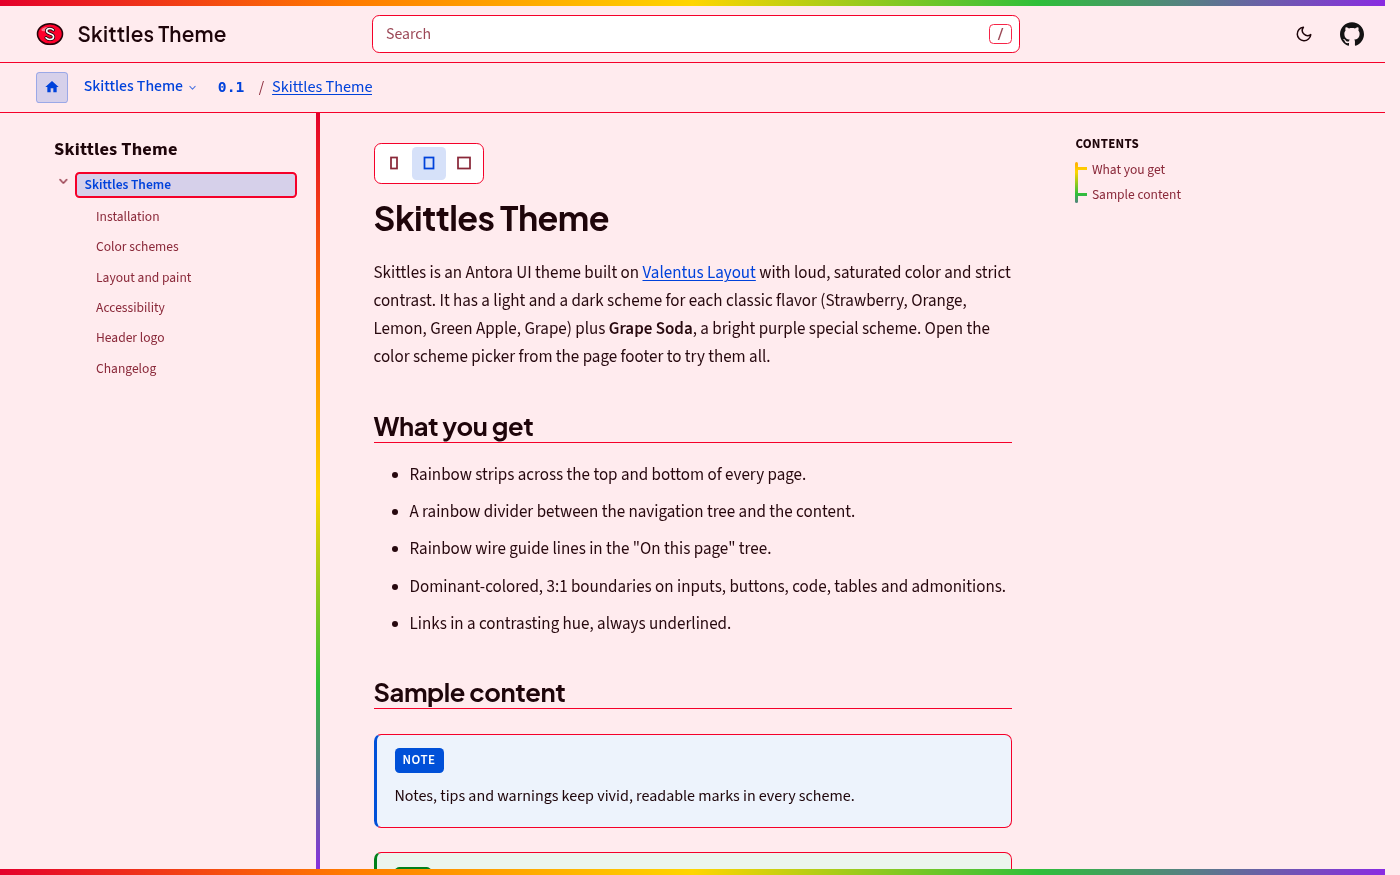
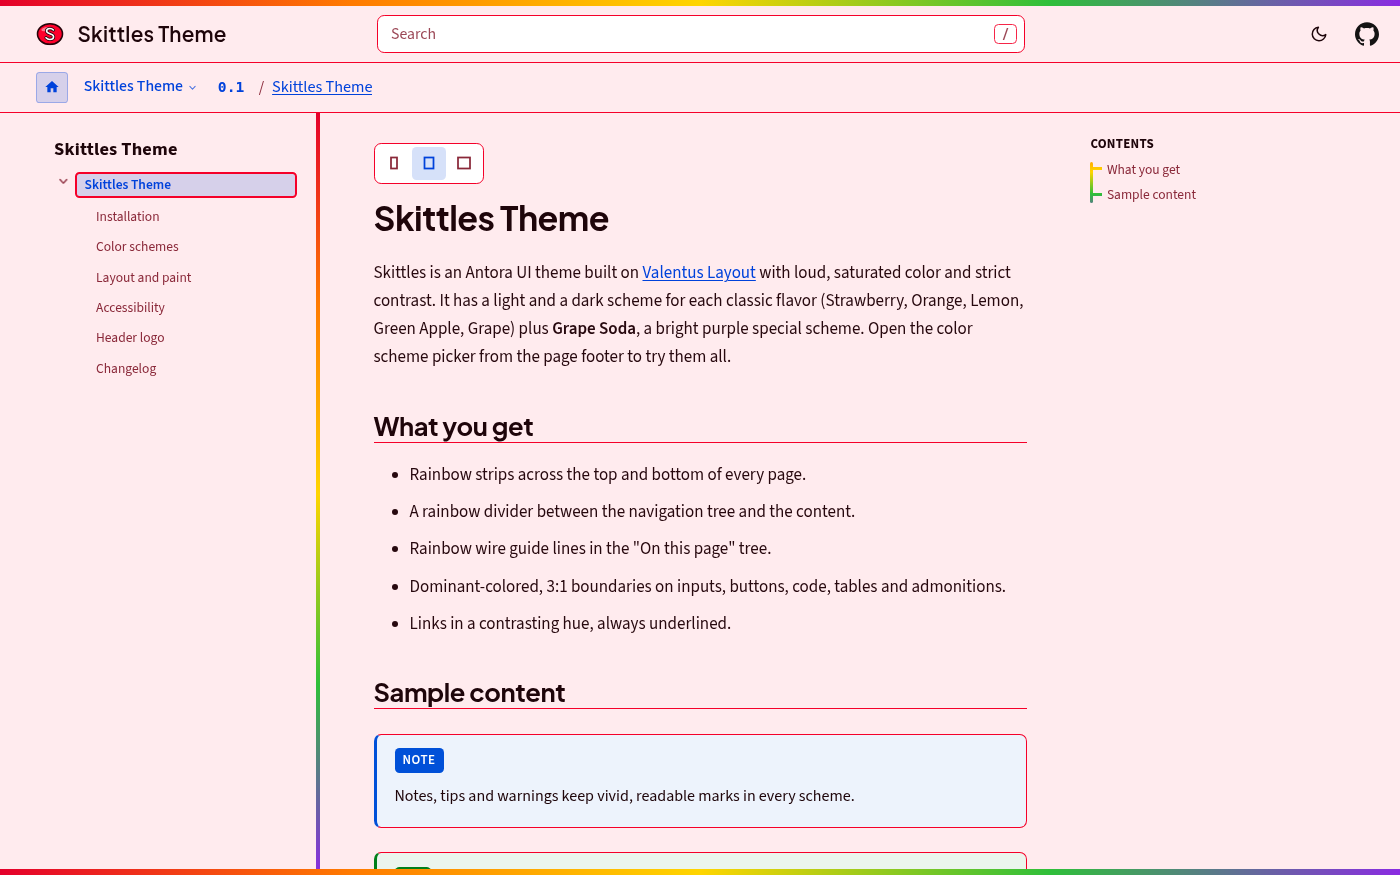
feat(themes): index Default UI with light/dark mode (GitLab fork) as the featured Default UI; variant link on the stock page; GitLab repo extras; gutter-free Skittles preview

diff --git a/src/data/known-theme-repos.ts b/src/data/known-theme-repos.ts
@@ -13,17 +13,41 @@ export interface KnownThemeRepo {
   description: string;
   githubTopics: string[];
   demoUrl?: string;
+  /** Forge host when not GitHub, e.g. 'gitlab.com'. */
+  host?: string;
+  /** Preview path under public/ when /previews/<repo>.png would collide. */
+  previewImage?: string;
+  /** owner/repo of the theme this one is a variant (enhanced fork) of; that theme's page links here. */
+  variantOf?: string;
+  /** Link text on the base theme's page, e.g. "Also available with light/dark mode". */
+  variantLabel?: string;
 }
 
-// Order is the homepage "Featured Themes" order; the upstream Antora Default UI leads.
+/** Repository URL of a curated theme (GitHub unless host says otherwise). */
+export function knownThemeRepoUrl(ref: Pick<KnownThemeRepo, 'owner' | 'repo' | 'host'>): string {
+  return `https://${ref.host ?? 'github.com'}/${ref.owner}/${ref.repo}`;
+}
+
+/** Curated variants of a theme (by its owner/repo): generic "Also available with …" links for its detail page. */
+export function themeVariantsOf(path: string): Array<{ path: string; label: string; href: string }> {
+  return knownThemeRepos
+    .filter((r) => r.variantOf && r.variantOf.toLowerCase() === path.toLowerCase())
+    .map((r) => ({ path: `${r.owner}/${r.repo}`, label: r.variantLabel ?? `Also available as ${r.name}`, href: `/themes/${r.owner}/${r.repo}` }));
+}
+
+// Order is the homepage "Featured Themes" order; the Default UI slot leads (the light/dark fork of the stock UI).
 export const knownThemeRepos: KnownThemeRepo[] = [
   {
-    owner: 'antora',
+    host: 'gitlab.com',
+    owner: 'AMDphreak',
     repo: 'antora-ui-default',
-    name: 'Default UI',
-    description: 'The official Antora default UI bundle.',
-    githubTopics: [ANTORA_TOPICS.THEME, ANTORA_APPEARANCE_TOPICS.LIGHT_THEME],
-    demoUrl: 'https://docs.antora.org',
+    name: 'Default UI with light/dark mode',
+    description: 'The Antora Default UI plus a light/dark mode toggle (fork of antora/antora-ui-default).',
+    githubTopics: [ANTORA_TOPICS.THEME, ANTORA_APPEARANCE_TOPICS.LIGHT_THEME, ANTORA_APPEARANCE_TOPICS.DARK_THEME],
+    demoUrl: 'https://gitlab.com/AMDphreak/antora-ui-default/-/tree/feat/root-theme-transition',
+    previewImage: '/previews/amdphreak-antora-ui-default.png',
+    variantOf: 'antora/antora-ui-default',
+    variantLabel: 'Also available with light/dark mode',
   },
   {
     owner: 'antora-supplemental',
@@ -60,6 +84,14 @@ export const knownThemeRepos: KnownThemeRepo[] = [
     ],
     demoUrl: 'https://antora-supplemental.org/skittles-theme/',
   },
+  {
+    owner: 'antora',
+    repo: 'antora-ui-default',
+    name: 'Default UI',
+    description: 'The official Antora default UI bundle.',
+    githubTopics: [ANTORA_TOPICS.THEME, ANTORA_APPEARANCE_TOPICS.LIGHT_THEME],
+    demoUrl: 'https://docs.antora.org',
+  },
 ];
 
 function themeAppearanceOf(topics: string[]) {
@@ -73,10 +105,10 @@ export function themesFromKnownRepos(): Theme[] {
     name: ref.name,
     description: ref.description,
     author: ref.owner,
-    repoUrl: `https://github.com/${ref.owner}/${ref.repo}`,
+    repoUrl: knownThemeRepoUrl(ref),
     demoUrl: ref.demoUrl ?? `https://${ref.owner}.github.io/${ref.repo}/`,
     // Screenshots of each demoUrl, committed under public/previews (theme repos ship no preview.png).
-    previewImage: `/previews/${ref.repo}.png`,
+    previewImage: ref.previewImage ?? `/previews/${ref.repo}.png`,
     stars: 0,
     tags: [...new Set([...appearanceTags(ref.githubTopics), 'documentation'])],
     lastUpdated: new Date().toISOString(),

diff --git a/src/lib/ui-modules.ts b/src/lib/ui-modules.ts
@@ -1,3 +1,6 @@
+import { antoraRepoDefault } from '~/lib/antora-compat';
+import { parseColorSchemes, type ColorScheme } from '~/lib/color-schemes';
+import { readRelations } from '~/lib/pkg-compat';
 import { fetchRepoReleaseInfo } from '~/lib/repo-releases';
 import fs from 'node:fs';
 import path from 'node:path';
@@ -497,6 +500,22 @@ export function upstreamFork(e: Pick<ExtensionCatalogEntry, 'upstream'>): ForkIn
   return source ? { parent: source, source } : undefined;
 }
 
+/** package.json antoraRegistry extras read through a forge's raw-file fetcher. */
+async function gitlabExtras(fetchText: (p: string) => Promise<string | null>) {
+  let pkg: any = null;
+  try { pkg = JSON.parse((await fetchText('package.json')) ?? 'null'); } catch { pkg = null; }
+  const antora = antoraRepoDefault(pkg);
+  const decl = pkg?.antoraRegistry?.colorSchemes;
+  const paths: string[] = (Array.isArray(decl) ? decl : decl ? [decl] : []).filter((p: unknown): p is string => typeof p === 'string').slice(0, 3);
+  const colorSchemes: ColorScheme[] = [];
+  for (const p of paths) {
+    const css = await fetchText(p.replace(/^\.?\//, ''));
+    if (css) colorSchemes.push(...parseColorSchemes(css));
+  }
+  const relations = readRelations(pkg?.antoraRegistry ?? pkg?.['antora-registry']);
+  return { antora, colorSchemes, relations };
+}
+
 /** GitLab project (gitlab.com or self-hosted): package.json-listed extension, same enrichment as GitHub. */
 async function indexGitLabRepo(ref: KnownExtensionRepo): Promise<ExtensionCatalogEntry[] | null> {
   const host = ref.host!.toLowerCase();
@@ -526,8 +545,13 @@ async function indexGitLabRepo(ref: KnownExtensionRepo): Promise<ExtensionCatalo
     return null;
   }
   const forkOf = fields.fork ? forkInfoFrom(fields, null) : upstreamFork(entry);
+  // Same repo-level extras as GitHub (no releases API here): Antora default, relations, declared color schemes.
+  const extras = await gitlabExtras((p) => fetchGitLabRaw(host, ref.owner, ref.repo, branch, p));
   return [{
+    ...(extras.relations ? { relations: extras.relations } : {}),
     ...entry,
+    ...(extras.antora.length ? { antora: extras.antora } : {}),
+    ...(extras.colorSchemes.length ? { colorSchemes: extras.colorSchemes } : {}),
     catalogId: `${host}/${ref.owner}/${ref.repo}`.toLowerCase() + `/${entry.id}`,
     repositoryHost: host,
     ...(forkOf ? { forkOf } : {}),

diff --git a/src/routes/themes/[owner]/[repo].tsx b/src/routes/themes/[owner]/[repo].tsx
@@ -1,6 +1,6 @@
 import { A, Navigate, createAsync, useParams } from '@solidjs/router';
 import { Title } from '@solidjs/meta';
-import { createMemo, Show, Suspense } from 'solid-js';
+import { createMemo, For, Show, Suspense } from 'solid-js';
 import SiteLayout from '~/components/SiteLayout';
 import NewBadge from '~/components/catalog/NewBadge';
 import ReportButton from '~/components/catalog/ReportButton';
@@ -10,6 +10,7 @@ import { cn } from '~/lib/utils';
 import { THEME_APPEARANCE_LABELS } from '~/lib/appearance-filter';
 import { loadExtensionCatalog, loadThemes } from '~/lib/server/catalog';
 import { themeRepoPath } from '~/lib/theme-href';
+import { themeVariantsOf } from '~/data/known-theme-repos';
 
 /** Theme detail page. When the theme's repo is also a catalog package, the package page is the detail page. */
 export default function ThemeDetailPage() {
@@ -46,6 +47,9 @@ export default function ThemeDetailPage() {
                     <p class="text-slate-400 mb-4">by {t().author} · ★ {t().stars}</p>
                     <img src={t().previewImage} alt={`Preview of ${t().name}`} class="w-full rounded-xl border border-slate-700/50 mb-6" />
                     <p class="text-slate-300 mb-4">{t().description}</p>
+                    <For each={themeVariantsOf(key())}>
+                      {(v) => <p class="mb-4"><A href={v.href} class="text-primary-400 hover:text-primary-300 font-medium">{v.label} →</A></p>}
+                    </For>
                     <Show when={t().appearance}>{(a) => <p class="text-sm text-slate-400 mb-4">{THEME_APPEARANCE_LABELS[a()]}</p>}</Show>
                     <div class="flex flex-wrap gap-2 mb-6">{t().tags.filter((x) => x !== 'theme').map((x) => <Badge>{x}</Badge>)}</div>
                     <div class="flex gap-3 items-center">

diff --git a/tests/theme-variants.test.ts b/tests/theme-variants.test.ts
@@ -1,0 +1,19 @@
+import { test } from 'node:test';
+import assert from 'node:assert/strict';
+import { knownThemeRepoUrl, themeVariantsOf, themesFromKnownRepos } from '../src/data/known-theme-repos';
+
+test('stock Default UI links to its light/dark fork, not the other way round', () => {
+  assert.deepEqual(themeVariantsOf('antora/antora-ui-default'), [
+    { path: 'AMDphreak/antora-ui-default', label: 'Also available with light/dark mode', href: '/themes/AMDphreak/antora-ui-default' },
+  ]);
+  assert.deepEqual(themeVariantsOf('AMDphreak/antora-ui-default'), []);
+});
+
+test('the fork leads the featured themes from GitLab; the stock item stays light-only', () => {
+  const themes = themesFromKnownRepos();
+  assert.equal(themes[0].repoUrl, 'https://gitlab.com/AMDphreak/antora-ui-default');
+  assert.equal(themes[0].name, 'Default UI with light/dark mode');
+  const stock = themes.find((t) => t.repoUrl === 'https://github.com/antora/antora-ui-default')!;
+  assert.equal(stock.appearance, 'light');
+  assert.equal(knownThemeRepoUrl({ owner: 'a', repo: 'b' }), 'https://github.com/a/b');
+});

diff --git a/src/lib/themes/catalog.ts b/src/lib/themes/catalog.ts
@@ -1,11 +1,11 @@
 import { eq, desc } from 'drizzle-orm';
 import { sampleThemes } from '~/data/themes';
-import { knownThemeRepos } from '~/data/known-theme-repos';
+import { knownThemeRepos, knownThemeRepoUrl } from '~/data/known-theme-repos';
 
 /** Curated order first (Default UI leads), then everything else by stars. */
 function featuredRank(repoUrl: string): number {
   const i = knownThemeRepos.findIndex(
-    (r) => `https://github.com/${r.owner}/${r.repo}`.toLowerCase() === repoUrl.toLowerCase(),
+    (r) => knownThemeRepoUrl(r).toLowerCase() === repoUrl.toLowerCase(),
   );
   return i < 0 ? Number.MAX_SAFE_INTEGER : i;
 }

diff --git a/src/data/extension-repos.ts b/src/data/extension-repos.ts
@@ -60,4 +60,13 @@ export const knownExtensionRepos: KnownExtensionRepo[] = [
     discoveredVia: 'curated',
     githubTopics: [ANTORA_TOPICS.EXTENSION],
   },
+  {
+    // Default UI with light/dark mode: fork of antora/antora-ui-default; dark mode lives on this branch.
+    host: 'gitlab.com',
+    owner: 'AMDphreak',
+    repo: 'antora-ui-default',
+    branch: 'feat/root-theme-transition',
+    discoveredVia: 'curated',
+    githubTopics: [ANTORA_TOPICS.THEME, 'antora-light-theme', 'antora-dark-theme'],
+  },
 ];
